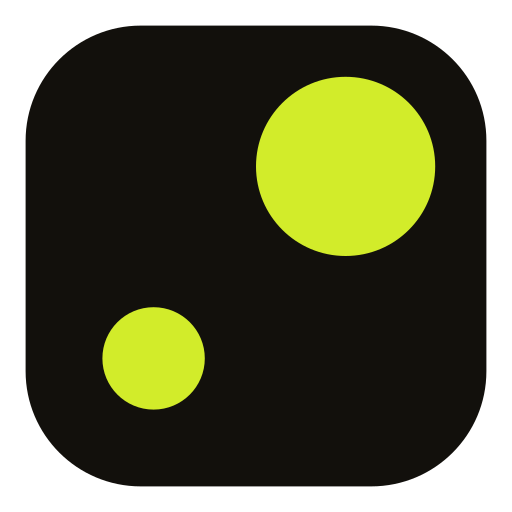
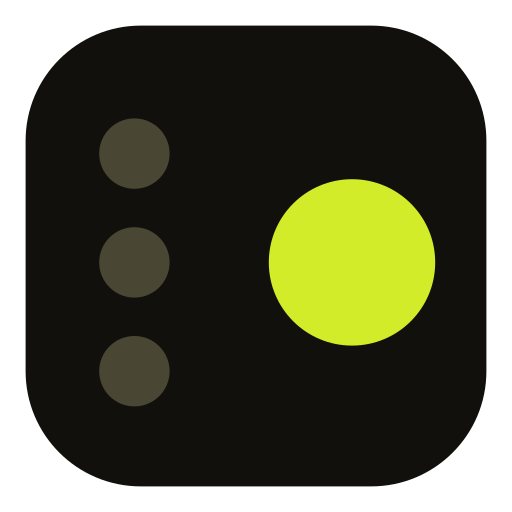
feat(brand): replace the mark — three agent dots, one lime source disc
GEOMETRY (80-unit box, per spec): square x4 y4 w72 h72 rx18; agent dots r5.5 at
(21,24) (21,41) (21,58); source disc r13 at (55,41). Meaning: three AI assistants,
one earned the revenue. No fourth dot, no glow - the count IS the meaning, and a
glow is the background wash §2.6 exists to prevent. Both are called out in the
component header and in design.md §3.1 so neither gets "improved" back in.

THREE SPEC VALUES CORRECTED, verified against docs/design/design.md before writing:
- source disc #D2EC2A, NOT #C8F000. §3.1:324 is the accent; §3.8:494 lists #C8F000
  as SUPERSEDED AND FORBIDDEN. It was the pre-v1.3 lime, migrated away at v1.3
  (:3773). Building the mark on it would have shipped a §3.8-banned colour.
- dark square #1B1811 (§3.3 --color-surface), NOT the cool #1C1D20. §3.8:496 bans
  cool greys anywhere and #567/#569 were two merged PRs mapping cool neutrals onto
  the warm ramp; a cool square reintroduces exactly what they removed.
- no --color-accent-2. An "Accent - counterweight" already exists as --color-spend
  #FF7A33; a second orange would be the two-limes problem in a new hue.

AGENT-DOT DARK - NO TOKEN FITS, so none was invented. Measured on the light
reference (#4A4634 on #12100C = 2.006:1): --color-border #302B22 gives 1.26 (too
faint to read), --color-text-faint #6E6656 gives 3.12 (too strong). Reusing #4A4634
gives 1.87 on #1B1811 - a 0.136 drift, closer than any token - and it is warm. The
[…]

Changed region(s): [[0.5, 0.125, 0.875, 0.6875], [0.1875, 0.4375, 0.4062, 0.8125], [0.1875, 0.2188, 0.3438, 0.375]]

diff --git a/api/tests/mark-export-parity.test.js b/api/tests/mark-export-parity.test.js
@@ -1,0 +1,212 @@
+// Mark export parity — every export of the logo mark must be the SAME artwork.
+//
+// ── THE FAILURE THIS EXISTS TO PREVENT ──────────────────────────────────────────────────────
+// `dashboard/src/components/Logo.jsx`'s own header records it: the two `favicon.svg` files had
+// already DIVERGED FROM EACH OTHER — r=24 vs r=20, different arc and cursor path data — because
+// each was traced separately on its own occasion, and every raster was then frozen against
+// whichever one it happened to be cut from. Nothing detected it, because nothing compared them.
+//
+// So this file compares them, in three directions:
+//   1. the two committed favicon.svg files, to each other        (byte-identical)
+//   2. the committed SVG, to Logo.jsx's geometry constants       (the component is the source)
+//   3. every raster, to a fresh rasterisation of its SVG source  (byte-identical)
+//
+// (3) is what makes a stale PNG impossible: a raster that was not regenerated after a geometry
+// change no longer matches what its source renders to, and fails here.
+//
+// ── EVERY CHECK HAS A POSITIVE CONTROL ──────────────────────────────────────────────────────
+// Each comparison is paired with a test that MUTATES the input in memory and asserts the same
+// comparison REJECTS it. Without those, a comparator that silently always passes — a bad regex,
+// an empty file list, a normaliser that flattens everything to '' — would look identical to a
+// green suite. The controls are the difference between "the exports match" and "we looked".
+
+import test from 'node:test'
+import assert from 'node:assert'
+import { readFileSync, existsSync } from 'node:fs'
+import { fileURLToPath } from 'node:url'
+import { dirname, join } from 'node:path'
+import sharp from 'sharp'
+
+const REPO = join(dirname(fileURLToPath(import.meta.url)), '..', '..')
+const p = (...s) => join(REPO, ...s)
+
+const LOGO_JSX = p('dashboard', 'src', 'components', 'Logo.jsx')
+const MK_SVG = p('marketing', 'public', 'favicon.svg')
+const DB_SVG = p('dashboard', 'public', 'favicon.svg')
+const SMALL_SVG = p('marketing', 'public', 'favicon-16.svg')
+
+// Rasters, each with the SVG it is generated FROM and its pixel size. Mirrors
+// scripts/generate-app-icons.mjs — if that script gains an output, add it here too.
+// `flatten` mirrors generate-app-icons.mjs:53 — apple-touch-icon ONLY. iOS composites that one
+// onto white when it carries alpha, which would frame the ink square in a white border, so it is
+// flattened onto INK at generation time. Omitting it here would make a correct file look stale.
+const RASTERS = [
+  { file: p('marketing', 'public', 'favicon-32.png'), src: MK_SVG, size: 32 },
+  { file: p('marketing', 'public', 'favicon-16.png'), src: SMALL_SVG, size: 16 },
+  { file: p('marketing', 'public', 'apple-touch-icon.png'), src: MK_SVG, size: 180, flatten: true },
+  { file: p('marketing', 'public', 'icon-192.png'), src: MK_SVG, size: 192 },
+  { file: p('marketing', 'public', 'icon-512.png'), src: MK_SVG, size: 512 },
+  { file: p('dashboard', 'public', 'apple-touch-icon.png'), src: MK_SVG, size: 180, flatten: true },
+  { file: p('dashboard', 'public', 'icon-192.png'), src: MK_SVG, size: 192 },
+  { file: p('dashboard', 'public', 'icon-512.png'), src: MK_SVG, size: 512 }
+]
+
+// The ink the apple-touch-icon is flattened onto — read from Logo.jsx, not retyped, so a change
+// to the square colour cannot leave this constant silently stale.
+const INK_HEX = readFileSync(LOGO_JSX, 'utf8').match(/const INK = '(#[0-9A-Fa-f]{6})'/)[1]
+
+// ── Geometry extraction ─────────────────────────────────────────────────────────────────────
+// Pulls the shape out of an SVG string as a comparable, order-independent structure. Deliberately
+// strict: an unparseable file throws rather than yielding an empty object that would compare
+// equal to another empty object and pass.
+function shapeOfSvg (svg) {
+  const rect = svg.match(/<rect[^>]*x="([\d.]+)"[^>]*y="([\d.]+)"[^>]*width="([\d.]+)"[^>]*height="([\d.]+)"[^>]*rx="([\d.]+)"[^>]*fill="(#[0-9A-Fa-f]{6})"/)
+  assert.ok(rect, 'SVG must contain a parseable <rect> — parse failure must not read as "no shape"')
+  const circles = [...svg.matchAll(/<circle[^>]*cx="([\d.]+)"[^>]*cy="([\d.]+)"[^>]*r="([\d.]+)"[^>]*fill="(#[0-9A-Fa-f]{6})"/g)]
+    .map(m => ({ cx: +m[1], cy: +m[2], r: +m[3], fill: m[4].toUpperCase() }))
+  assert.ok(circles.length > 0, 'SVG must contain at least one <circle>')
+  return {
+    rect: { x: +rect[1], y: +rect[2], width: +rect[3], height: +rect[4], rx: +rect[5], fill: rect[6].toUpperCase() },
+    circles
+  }
+}
+
+// The same structure, read out of Logo.jsx's constants — the component is the source of truth,
+// so the committed SVGs are checked AGAINST it rather than the other way round.
+function shapeOfLogoJsx () {
+  const src = readFileSync(LOGO_JSX, 'utf8')
+  const one = (re, label) => {
+    const m = src.match(re)
+    assert.ok(m, `Logo.jsx must still declare ${label} — if this fails the constant was renamed, not the geometry checked`)
+    return m[1]
+  }
+  const obj = (raw) => JSON.parse(raw.replace(/(\w+):/g, '"$1":').replace(/'/g, '"'))
+  const sq = obj(one(/const SQUARE = (\{[^}]+\})/, 'SQUARE'))
+  const dots = obj('[' + one(/const AGENT_DOTS = \[(.+)\]/, 'AGENT_DOTS') + ']')
+  const agentR = +one(/const AGENT_R = ([\d.]+)/, 'AGENT_R')
+  const sd = obj(one(/const SOURCE_DOT = (\{[^}]+\})/, 'SOURCE_DOT'))
+  const INK = one(/const INK = '(#[0-9A-Fa-f]{6})'/, 'INK')
+  const AGENT = one(/const AGENT = '(#[0-9A-Fa-f]{6})'/, 'AGENT')
+  const LIME = one(/const LIME = '(#[0-9A-Fa-f]{6})'/, 'LIME')
+  return {
+    rect: { ...sq, fill: INK.toUpperCase() },
+    circles: [
+      ...dots.map(d => ({ cx: d.cx, cy: d.cy, r: agentR, fill: AGENT.toUpperCase() })),
+      { cx: sd.cx, cy: sd.cy, r: sd.r, fill: LIME.toUpperCase() }
+    ]
+  }
+}
+
+const rasterise = async (svgPath, size, flatten = false) => {
+  let img = sharp(readFileSync(svgPath), { density: 384 })
+    .resize(size, size, { fit: 'contain', background: { r: 0, g: 0, b: 0, alpha: 0 } })
+  if (flatten) img = img.flatten({ background: INK_HEX })
+  return img.png().toBuffer()
+}
+
+// ── 1. The two favicon.svg files ────────────────────────────────────────────────────────────
+
+test('the two favicon.svg files are byte-identical', () => {
+  assert.strictEqual(
+    readFileSync(MK_SVG, 'utf8'),
+    readFileSync(DB_SVG, 'utf8'),
+    'marketing and dashboard favicon.svg have diverged — the exact r=24-vs-r=20 failure this file exists to catch'
+  )
+})
+
+test('CONTROL — the byte comparison rejects a one-character divergence', () => {
+  const a = readFileSync(MK_SVG, 'utf8')
+  const b = a.replace('r="13"', 'r="12"')
+  assert.notStrictEqual(a, b, 'the mutation must actually change the string, or the control proves nothing')
+  assert.throws(() => assert.strictEqual(a, b), 'a diverged favicon MUST fail the comparison')
+})
+
+// ── 2. Committed SVG vs Logo.jsx ────────────────────────────────────────────────────────────
+
+test('favicon.svg geometry matches Logo.jsx MarkArtwork exactly', () => {
+  assert.deepStrictEqual(
+    shapeOfSvg(readFileSync(MK_SVG, 'utf8')),
+    shapeOfLogoJsx(),
+    'the committed SVG no longer matches the component it is generated from'
+  )
+})
+
+test('CONTROL — the geometry comparison rejects a moved dot', () => {
+  const mutated = shapeOfSvg(readFileSync(MK_SVG, 'utf8').replace('cx="55"', 'cx="56"'))
+  assert.throws(
+    () => assert.deepStrictEqual(mutated, shapeOfLogoJsx()),
+    'a 1-unit move of the source disc MUST fail — otherwise the comparison is not reading position'
+  )
+})
+
+test('CONTROL — the geometry comparison rejects a recoloured disc', () => {
+  const mutated = shapeOfSvg(readFileSync(MK_SVG, 'utf8').replace('#D2EC2A', '#C8F000'))
+  assert.throws(
+    () => assert.deepStrictEqual(mutated, shapeOfLogoJsx()),
+    'swapping the accent for the §3.8-banned lime MUST fail'
+  )
+})
+
+// ── 3. Rasters vs their SVG source ──────────────────────────────────────────────────────────
+
+test('every raster is byte-identical to a fresh render of its SVG source', async () => {
+  for (const r of RASTERS) {
+    assert.ok(existsSync(r.file), `${r.file} is missing — run \`npm run icons\``)
+    const onDisk = readFileSync(r.file)
+    const fresh = await rasterise(r.src, r.size, r.flatten)
+    assert.ok(
+      onDisk.equals(fresh),
+      `${r.file} is STALE — it does not match a render of its source. Run \`npm run icons\` and commit.`
+    )
+  }
+})
+
+test('CONTROL — the raster comparison rejects a render of mutated geometry', async () => {
+  const mutatedSvg = readFileSync(MK_SVG, 'utf8').replace('r="13"', 'r="11"')
+  const fresh = await sharp(Buffer.from(mutatedSvg), { density: 384 })
+    .resize(192, 192, { fit: 'contain', background: { r: 0, g: 0, b: 0, alpha: 0 } })
+    .png()
+    .toBuffer()
+  const onDisk = readFileSync(p('marketing', 'public', 'icon-192.png'))
+  assert.ok(
+    !onDisk.equals(fresh),
+    'a raster rendered from CHANGED geometry must NOT match the committed one — if it does, the byte comparison is not comparing pixels'
+  )
+})
+
+// ── 4. Colour invariants (§3.1 / §3.8) ──────────────────────────────────────────────────────
+
+test('no export carries the §3.8-banned pre-v1.3 lime', () => {
+  for (const f of [LOGO_JSX, MK_SVG, DB_SVG, SMALL_SVG]) {
+    const s = readFileSync(f, 'utf8')
+    const live = s.split('\n').filter(l => /#C8F000/i.test(l) && !/^\s*\/\/|^\s*\*/.test(l))
+    assert.deepStrictEqual(live, [], `${f} carries #C8F000 outside a comment — §3.8:494 lists it as superseded`)
+  }
+})
+
+test('the source disc is the §3.1 accent and the square is warm in both modes', () => {
+  const src = readFileSync(LOGO_JSX, 'utf8')
+  assert.match(src, /const LIME = '#D2EC2A'/, 'source disc must be the §3.1 accent')
+  assert.match(src, /const SURFACE_DARK = '#1B1811'/, 'dark square must be §3.3 --color-surface, not a cool grey')
+  for (const [name, hex] of [['INK', '#12100C'], ['SURFACE_DARK', '#1B1811'], ['AGENT', '#4A4634']]) {
+    const [r, , b] = [1, 3, 5].map(i => parseInt(hex.slice(i, i + 2), 16))
+    assert.ok(r >= b, `${name} ${hex} must be warm (R >= B) — §3.8:496 bans cool greys anywhere`)
+  }
+})
+
+test('CONTROL — the warmth check rejects a cool value', () => {
+  const hex = '#1C1D20' // the cool dark originally specified for the square
+  const [r, , b] = [1, 3, 5].map(i => parseInt(hex.slice(i, i + 2), 16))
+  assert.ok(r < b, `${hex} must be detected as COOL — if this passes as warm the check is inert`)
+})
+
+// ── 5. The mark's meaning is its element count ───────────────────────────────────────────────
+
+test('exactly three agent dots and one source disc — no fourth dot, no glow', () => {
+  const { circles } = shapeOfSvg(readFileSync(MK_SVG, 'utf8'))
+  const agents = circles.filter(c => c.fill === '#4A4634')
+  const sources = circles.filter(c => c.fill === '#D2EC2A')
+  assert.strictEqual(agents.length, 3, 'three AI assistants — a fourth dot changes the meaning')
+  assert.strictEqual(sources.length, 1, 'exactly one earned the revenue')
+  assert.strictEqual(circles.length, 4, 'four elements total — an extra circle would be a glow')
+})

diff --git a/dashboard/src/components/Logo.jsx b/dashboard/src/components/Logo.jsx
@@ -1,47 +1,77 @@
 // SourceTrack logo system — inline SVG components.
 //
-// Mark (BRAND_v2.md §1 / design.md v1.3 §3.1, word-for-word): "two lime discs on a warm-ink
-// rounded square, large disc upper-right, small disc lower-left". Two elements on a square.
+// Mark: three small agent dots in a column, one large lime source disc to their right, on a
+// rounded square. Meaning: three AI assistants, ONE earned the revenue. Four elements.
 //
-// This replaces a mark that was never built to that spec: a circular tracking ring, a journey
-// arc, two nodes and a cursor-pointer — five to six elements — and, on the app-icon and both
-// favicon sets, with the colours INVERTED (lime square, ink mark) against a spec that calls for
-// an ink square carrying lime discs. Both faults are corrected here.
+// ⚠ DO NOT add a fourth agent dot, and do not add a glow behind the source disc. The count is
+// the meaning — a fourth dot says "four assistants", and a glow reads as the lime background
+// wash that §2.6's accent-density ceiling exists to prevent.
 //
-// Colours: #12100C warm ink (square), #D2EC2A lime (discs), #302B22 dark-mode border token.
+// This replaces the previous two-disc mark, which in turn replaced a five-to-six element ring/
+// arc/cursor drawing. Both earlier marks are gone; do not reinstate either.
 //
-// The square is #12100C, which is also the dark-mode body colour — on a dark surface it would
-// vanish and the mark would read as two floating discs, a different silhouette than in light
-// mode. The `hidden dark:block` border rect holds the shape in dark mode using the existing
-// --color-border token. It is dropped from LogoIcon on purpose: LogoIcon is the app-icon
-// artwork and must stay byte-identical to the favicon SVGs, which render on browser chrome
-// rather than on our own page and so have no theme to respond to.
+// ── COLOURS, and why these exact values ─────────────────────────────────────────────────────
+//   square      #12100C light · #1B1811 dark   (--color-bg / --color-surface, §3.2 / §3.3)
+//   agent dots  #4A4634 both modes
+//   source disc #D2EC2A both modes             (--color-accent, §3.1)
+//
+// The source disc is `#D2EC2A`, NOT `#C8F000`. §3.1:324 is the accent, and §3.8:494 lists
+// `#C8F000` as superseded and forbidden — it was the pre-v1.3 lime, migrated away at v1.3
+// (design.md :3773). A mark built on `#C8F000` would ship a §3.8-banned colour.
+//
+// The dark square is `#1B1811` (§3.3 `--color-surface`), NOT a cool `#1C1D20`. §3.8:496 bans
+// cool greys "anywhere", and #567/#569 were two merged PRs mapping cool neutrals onto the warm
+// ramp — a cool square would reintroduce exactly what they removed.
+//
+// ── WHY THE DARK-MODE BORDER RECT IS GONE ───────────────────────────────────────────────────
+// The previous mark's square was `#12100C`, which is ALSO `--color-bg` in dark mode, so on a
+// dark surface the square vanished and the mark read as floating discs. A `hidden dark:block`
+// stroked rect was used to hold the silhouette. Giving the square its own surface token
+// (`#1B1811`, distinct from `--color-bg` `#12100C`) removes the cause, so the hack is deleted
+// rather than carried forward. Nothing now depends on a Tailwind class to keep its shape.
+//
+// The theme swap is two mutually exclusive rects (`dark:hidden` / `hidden dark:block`) rather
+// than a CSS variable, because the FAVICON EXPORTS RENDER WITH NO THEME AT ALL — browser chrome
+// has no dark class to respond to. `forExport` collapses to the light square only, which is what
+// keeps LogoIcon byte-identical to the committed favicon.svg files.
 
-const INK = '#12100C'
-const LIME = '#D2EC2A'
+const INK = '#12100C'          // --color-bg, light
+const SURFACE_DARK = '#1B1811' // --color-surface, dark (§3.3)
+const AGENT = '#4A4634'        // agent dots, both modes — see note below
+const LIME = '#D2EC2A'         // --color-accent (§3.1)
 
-// The mark's artwork in an 80-unit box, shared by every export so the geometry cannot drift
-// between them again (the two favicon.svg files had already diverged from each other — r=24 vs
-// r=20, different arc and cursor paths — from being traced separately).
-function MarkArtwork({ withDarkBorder = true }) {
+// AGENT is one value for both modes deliberately. No §3.3 token sits at the light mark's
+// contrast step: #4A4634 on #12100C is 2.006:1, while --color-border #302B22 lands at 1.26
+// (too faint to read) and --color-text-faint #6E6656 at 3.12 (too strong). Reusing #4A4634
+// gives 1.87 on #1B1811 — a 0.136 drift from the light reference, closer than any token —
+// and it is warm, so it does not reintroduce the cool neutrals #567/#569 removed. The source
+// disc already works this way (#D2EC2A in both modes), so the dots now match it.
+
+// Geometry in an 80-unit box, shared by every export so it cannot drift between them again:
+// the two favicon.svg files had already diverged from each other — r=24 vs r=20, different arc
+// and cursor paths — from having been traced separately on different occasions.
+const SQUARE = { x: 4, y: 4, width: 72, height: 72, rx: 18 }
+const AGENT_DOTS = [{ cx: 21, cy: 24 }, { cx: 21, cy: 41 }, { cx: 21, cy: 58 }]
+const AGENT_R = 5.5
+const SOURCE_DOT = { cx: 55, cy: 41, r: 13 }
+
+// `forExport` — emit the light square ONLY, with no theme-conditional class. Used by LogoIcon,
+// the artwork the favicon SVGs are generated from and asserted against.
+function MarkArtwork({ forExport = false }) {
   return (
     <>
-      <rect x="4" y="4" width="72" height="72" rx="18" fill={INK} />
-      {withDarkBorder && (
-        <rect
-          x="5"
-          y="5"
-          width="70"
-          height="70"
-          rx="17"
-          fill="none"
-          stroke="#302B22"
-          strokeWidth="2"
-          className="hidden dark:block"
-        />
+      {forExport ? (
+        <rect {...SQUARE} fill={INK} />
+      ) : (
+        <>
+          <rect {...SQUARE} fill={INK} className="dark:hidden" />
+          <rect {...SQUARE} fill={SURFACE_DARK} className="hidden dark:block" />
+        </>
       )}
-      <circle cx="54" cy="26" r="14" fill={LIME} />
-      <circle cx="24" cy="56" r="8" fill={LIME} />
+      {AGENT_DOTS.map((d) => (
+        <circle key={`${d.cx}-${d.cy}`} cx={d.cx} cy={d.cy} r={AGENT_R} fill={AGENT} />
+      ))}
+      <circle cx={SOURCE_DOT.cx} cy={SOURCE_DOT.cy} r={SOURCE_DOT.r} fill={LIME} />
     </>
   )
 }
@@ -95,7 +125,7 @@ export function LogoFullDark({ className = 'h-9 w-auto' }) {
 export function LogoIcon({ className = 'w-12 h-12' }) {
   return (
     <svg className={className} viewBox="0 0 80 80" fill="none" xmlns="http://www.w3.org/2000/svg">
-      <MarkArtwork withDarkBorder={false} />
+      <MarkArtwork forExport />
     </svg>
   )
 }

diff --git a/docs/design/design.md b/docs/design/design.md
@@ -317,7 +317,7 @@ There must be one SourceTrack design system. Do not create alternate palettes, a
 | Token | Value |
 |---|---|
 | Product name | SourceTrack |
-| Mark | Two lime discs on a warm-ink rounded square. Large disc upper-right, small disc lower-left. |
+| Mark | Three small agent dots in a left-hand column, one large lime source disc to their right, on a rounded square. **Meaning: three AI assistants, one earned the revenue.** Square `#12100C` light / `#1B1811` dark (§3.3 `--color-surface`); agent dots `#4A4634` both modes; source disc `#D2EC2A` (the §3.1 accent) both modes. **Never a fourth dot and never a glow** — the count is the meaning, and a glow is the background wash §2.6 exists to prevent. |
 | Ink (structure / dark canvas) | `#12100C` |
 | Bone (light canvas) | `#F7F4ED` |
 | Paper (card surface, light) | `#FFFDF8` |

diff --git a/marketing/src/content/glossary/utms-click-ids.md b/marketing/src/content/glossary/utms-click-ids.md
@@ -1,5 +1,5 @@
 ---
 order: 6
 term: 'UTMs & Click IDs'
-body: 'URL tags (<code class="text-[#C8F000]">utm_source</code>) and ad click IDs (<code class="text-[#C8F000]">gclid</code>) that map paid campaigns.'
+body: 'URL tags (<code class="text-[#D2EC2A]">utm_source</code>) and ad click IDs (<code class="text-[#D2EC2A]">gclid</code>) that map paid campaigns.'
 ---

diff --git a/marketing/src/content/glossary/site-key.md b/marketing/src/content/glossary/site-key.md
@@ -1,5 +1,5 @@
 ---
 order: 2
 term: 'Site Key'
-body: 'The public <code class="text-[#C8F000]">st_</code> identifier that authorizes your script to submit data.'
+body: 'The public <code class="text-[#D2EC2A]">st_</code> identifier that authorizes your script to submit data.'
 ---

diff --git a/marketing/src/content/glossary/source-referrer.md b/marketing/src/content/glossary/source-referrer.md
@@ -1,5 +1,5 @@
 ---
 order: 5
 term: 'Source & Referrer'
-body: 'The channel that sent the visitor (e.g. <code class="text-[#C8F000]">google</code> or direct).'
+body: 'The channel that sent the visitor (e.g. <code class="text-[#D2EC2A]">google</code> or direct).'
 ---
